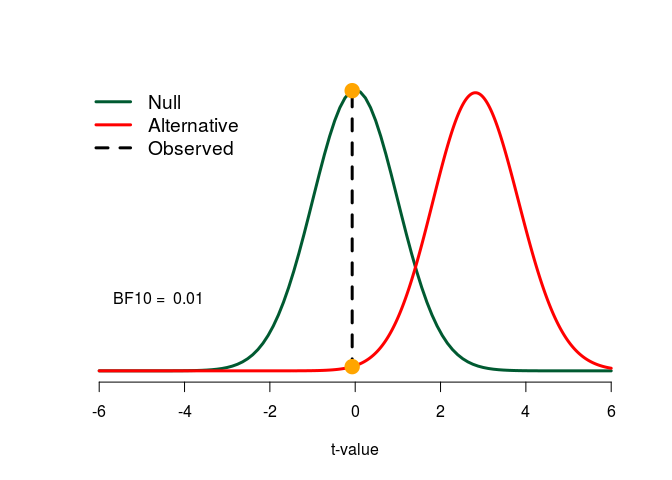
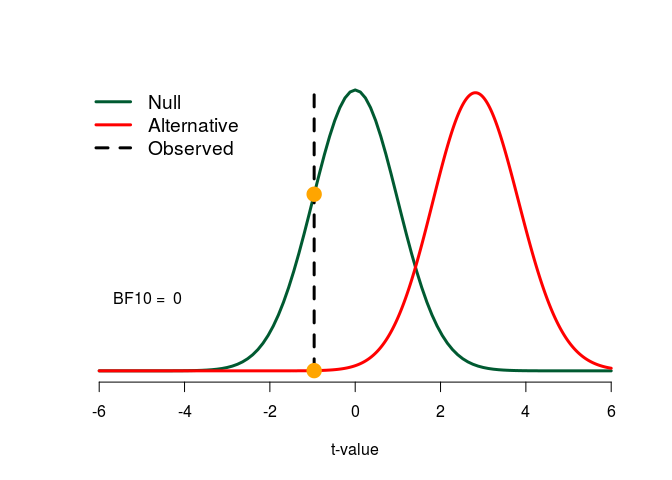
slight change to readme

diff --git a/README.md b/README.md
@@ -124,7 +124,7 @@ library("BayesFactor")
 
     ## Bayes factor analysis
     ## --------------
-    ## [1] Null, mu1-mu2=0 : 6.485053 ±0%
+    ## [1] Null, mu1-mu2=0 : 4.216068 ±0%
     ## 
     ## Against denominator:
     ##   Alternative, r = 0.707106781186548, mu =/= 0 
@@ -134,7 +134,7 @@ library("BayesFactor")
 Predictions of different priors
 -------------------------------
 
-The primary strength of the package `bayesEd` is that Bayes factors for different priors can be computed and visualized. This may be used for educational purposes, e.g., to teach the Bayes factor to students. The following is a gallery for different priors and their predictions. I use the data from the example above where I sampled 200 observations:
+The primary strength of the package `bayesEd` is that Bayes factors for different priors can be computed and visualized. This may be used for educational purposes, e.g., to teach the Bayes factor to students. The following is a gallery for different priors and their predictions. I use the data from the example above where I sampled 2x 100 observations from a population null effect:
 
 ``` r
 ## Use a point hypothesis as the alternative. In this case, the argument
